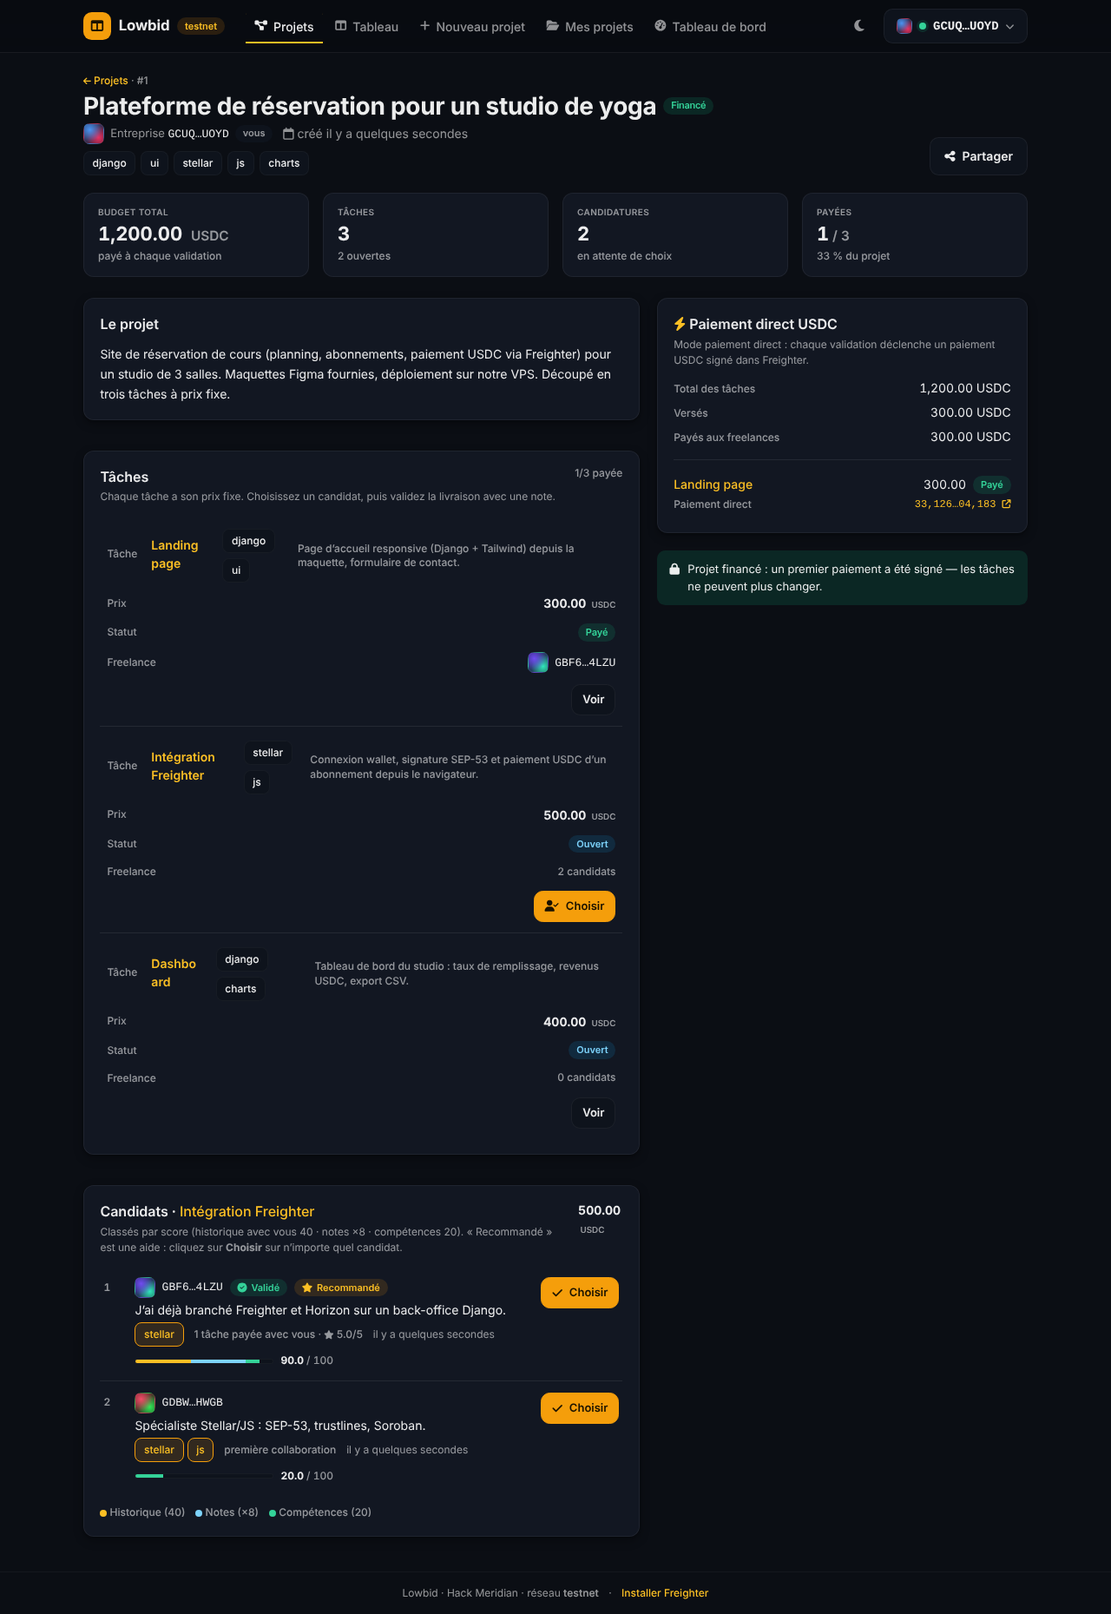
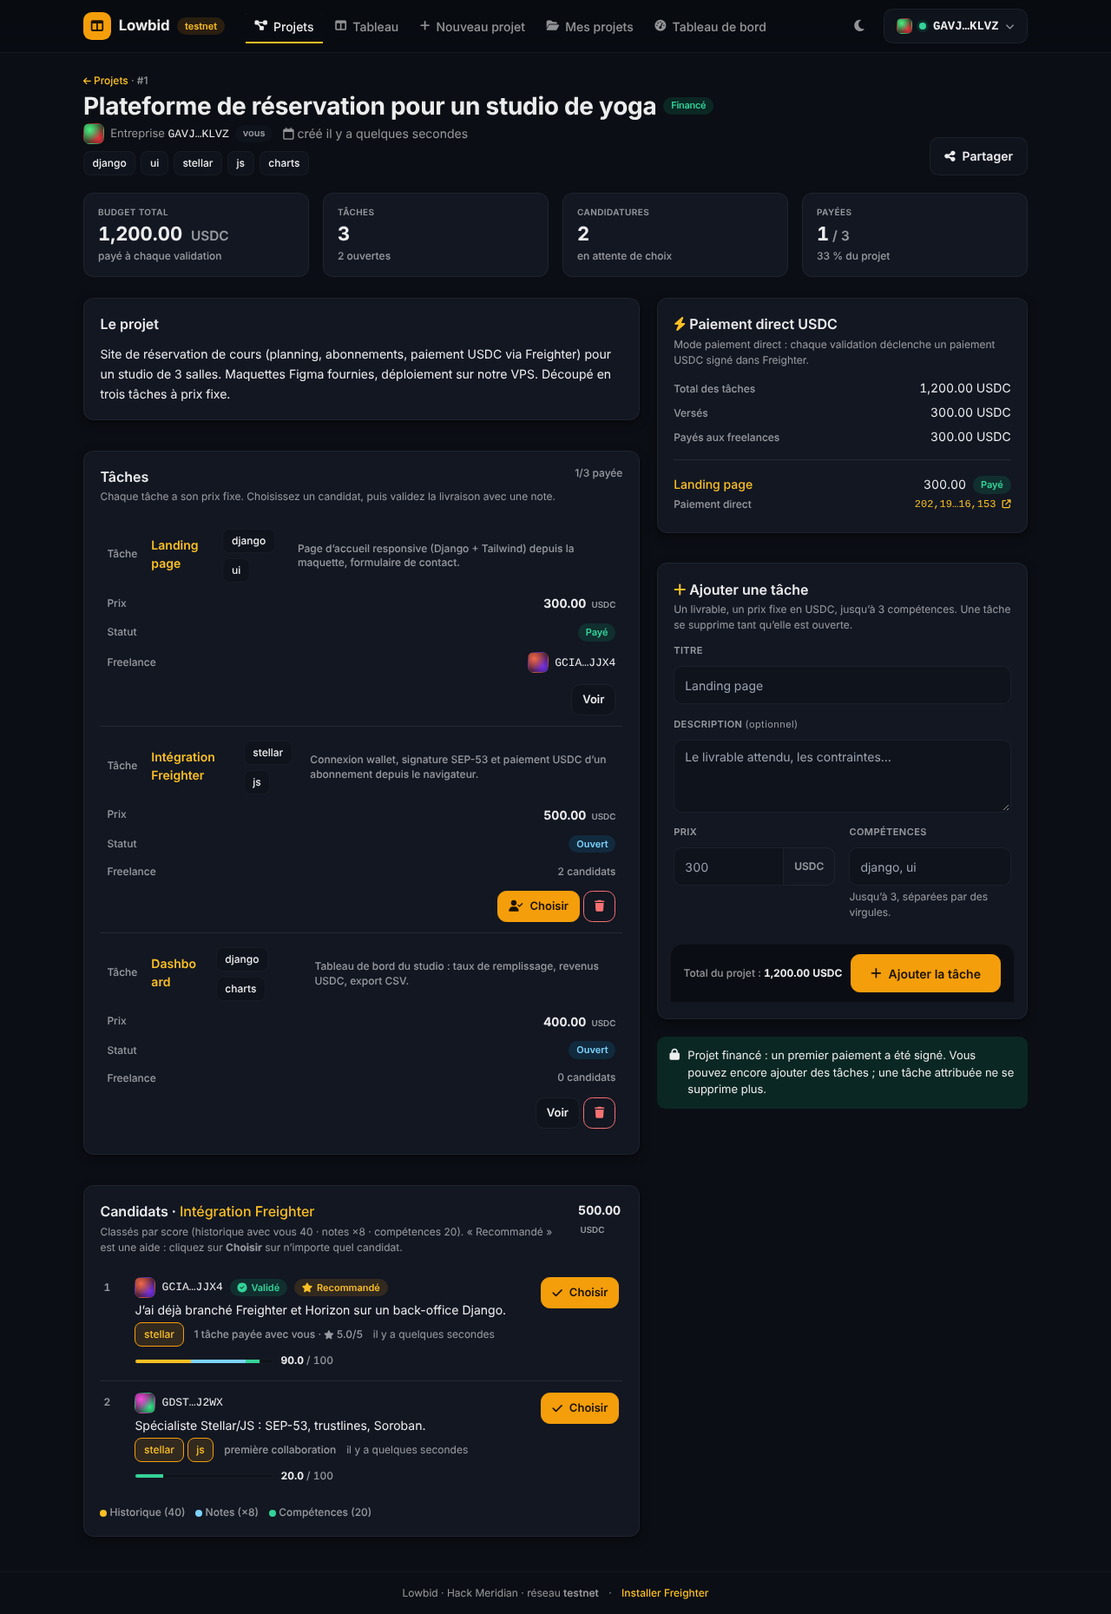
projects: tasks can be added until the project closes, deleted while open
One escrow per task means funding locks a task's price, never the project's
scope. add_task now refuses only a `closed` project; delete_task only a task
that is no longer `open`. Copy, docs (PRODUCT R3/R4/R12, ARCHITECTURE, README),
model docstrings, the kpi component example, the flow test and the e2e
assertion follow. .env.example lists LOWBID_SQLITE_PATH.

Claude-Session: https://claude.ai/code/session_011pNtMGtWMgMJzhbvsW2tGr

diff --git a/templates/projects/project_form.html b/templates/projects/project_form.html
@@ -39,7 +39,7 @@
     <div class="ui-panel">
       <div class="ui-panel-head"><div><h2 class="ui-panel-title">Ensuite</h2><p class="ui-panel-sub">Trois étapes, sans enchère ni compte à rebours.</p></div></div>
       <ol class="ui-timeline">
-        <li class="ui-timeline-item is-brand"><span class="ui-timeline-dot" aria-hidden="true"><i class="fa-solid fa-list-check"></i></span><div class="ui-timeline-body"><p class="ui-timeline-title">Découpez en tâches</p><div class="ui-timeline-time">Titre, description, prix fixe en USDC, jusqu’à 3 compétences. Modifiable tant que le projet n’est pas financé.</div></div></li>
+        <li class="ui-timeline-item is-brand"><span class="ui-timeline-dot" aria-hidden="true"><i class="fa-solid fa-list-check"></i></span><div class="ui-timeline-body"><p class="ui-timeline-title">Découpez en tâches</p><div class="ui-timeline-time">Titre, description, prix fixe en USDC, jusqu’à 3 compétences. Une tâche se supprime tant qu’elle est ouverte ; vous pourrez en ajouter à tout moment.</div></div></li>
         <li class="ui-timeline-item"><span class="ui-timeline-dot" aria-hidden="true"><i class="fa-solid fa-user-check"></i></span><div class="ui-timeline-body"><p class="ui-timeline-title">Choisissez un freelance par tâche</p><div class="ui-timeline-time">Les candidats sont classés (historique avec vous, notes, compétences) : le badge « Recommandé » est une aide, vous décidez.</div></div></li>
         <li class="ui-timeline-item is-ok"><span class="ui-timeline-dot" aria-hidden="true"><i class="fa-solid fa-circle-check"></i></span><div class="ui-timeline-body"><p class="ui-timeline-title">Validez et notez</p><div class="ui-timeline-time">Le freelance livre un lien, vous validez avec une note de 1 à 5 : la part de la tâche lui est versée.</div></div></li>
       </ol>

diff --git a/templates/projects/project_detail.html b/templates/projects/project_detail.html
@@ -127,9 +127,9 @@ payments.services.project_funding().
         </section>
       {% endif %}
       {% if project.is_draft %}
-        <div class="ui-alert ui-alert-info"><i class="fa-solid fa-circle-info" aria-hidden="true"></i><span>Projet en brouillon : les tâches restent modifiables{% if not funding.is_direct %} jusqu’au blocage des fonds{% endif %}. Les freelances peuvent déjà postuler.</span></div>
+        <div class="ui-alert ui-alert-info"><i class="fa-solid fa-circle-info" aria-hidden="true"></i><span>Projet en brouillon : aucun fonds engagé. Les freelances peuvent déjà postuler ; une tâche ouverte se supprime encore.</span></div>
       {% elif project.status == 'funded' %}
-        <div class="ui-alert ui-alert-ok"><i class="fa-solid fa-lock" aria-hidden="true"></i><span>Projet financé : {% if funding.is_direct %}un premier paiement a été signé{% else %}le prix des tâches attribuées est bloqué en escrow{% endif %} — les tâches ne peuvent plus changer.</span></div>
+        <div class="ui-alert ui-alert-ok"><i class="fa-solid fa-lock" aria-hidden="true"></i><span>Projet financé : {% if funding.is_direct %}un premier paiement a été signé{% else %}le prix de chaque tâche attribuée est bloqué dans son escrow{% endif %}. Vous pouvez encore ajouter des tâches ; une tâche attribuée ne se supprime plus.</span></div>
       {% elif project.status == 'closed' %}
         <div class="ui-alert ui-alert-ok"><i class="fa-solid fa-circle-check" aria-hidden="true"></i><span>Projet terminé : toutes les tâches sont payées.</span></div>
       {% endif %}

diff --git a/tests/e2e/run.js b/tests/e2e/run.js
@@ -533,7 +533,9 @@ async function main() {
       assert(await cp.locator(`#candidates-${taskIds[1]} [data-choose]`).count() === 2, "project page: Choisir on every candidate of T2");
       assert(await cp.locator(`#candidates-${taskIds[1]} [data-badge="valide"]`).count() === 1, "project page: Validé badge");
       assert(await cp.locator(".task-row[data-status=paid]").count() === 1, "T1 row is Payé");
-      assert(await cp.locator("[data-task-delete]").count() === 0, "project is Financé: tasks are frozen");
+      // One escrow per task: the project is Financé but only the still-open tasks (T2, T3) can be deleted; T1 (paid) cannot.
+      assert(await cp.locator("[data-task-delete]").count() === 2, "project is Financé: only the two open tasks keep a delete button");
+      assert(await cp.locator("#task-title").count() === 1, "project is Financé: the add-task form is still there");
       await shot(cp, "03-projet-entreprise");
       await noHorizontalScroll(cp, "desktop project company");
 

diff --git a/templates/components/kpi.html b/templates/components/kpi.html
@@ -1,5 +1,5 @@
 {% comment %}
-KPI tile: {% include "components/kpi.html" with label="Budget max" value="500" unit="USDC" hint="prix plafond" icon="fa-coins" href=url attr="data-kpi-best" %}
+KPI tile: {% include "components/kpi.html" with label="Prix fixe" value="300" unit=asset_code hint="payé à la validation" icon="fa-coins" href=url attr="data-kpi-price" %}
 `value` is rendered as-is (pass pre-formatted text); `unit` adds a .ui-price-unit span.
 {% endcomment %}<{% if href %}a href="{{ href }}"{% else %}div{% endif %} class="ui-kpi-tile{% if href %} is-link{% endif %}">
   <span class="ui-kpi-head"><span class="ui-kpi-label">{{ label }}</span>{% if icon %}<span class="ui-kpi-icon" aria-hidden="true"><i class="fa-solid {{ icon }}"></i></span>{% endif %}</span>

diff --git a/templates/projects/_task_form.html b/templates/projects/_task_form.html
@@ -4,7 +4,7 @@
   <div class="ui-panel-head">
     <div>
       <h2 class="ui-panel-title" id="task-form-title"><i class="fa-solid fa-plus" style="color: var(--brand-500)" aria-hidden="true"></i> Ajouter une tâche</h2>
-      <p class="ui-panel-sub">Un livrable, un prix fixe en {{ asset_code }}, jusqu’à 3 compétences. Modifiable tant que le projet n’est pas financé.</p>
+      <p class="ui-panel-sub">Un livrable, un prix fixe en {{ asset_code }}, jusqu’à 3 compétences. Une tâche se supprime tant qu’elle est ouverte.</p>
     </div>
   </div>
   <form id="task-form" class="ui-form-grid" novalidate>

diff --git a/projects/tests.py b/projects/tests.py
@@ -141,10 +141,13 @@ class AddTaskTests(BaseProjectTest):
             services.add_task(self.project, None, "Hack", "", "1", [])
         self.assertEqual(ctx.exception.code, "forbidden")
 
-    def test_only_while_draft(self):
+    def test_until_closed(self):
         Project.objects.filter(pk=self.project.pk).update(status=Project.Status.FUNDED)
+        task = services.add_task(self.project, self.company, "Encore une", "", "10", [])  # one escrow per task: funded ≠ frozen
+        self.assertEqual(task.status, "open")
+        Project.objects.filter(pk=self.project.pk).update(status=Project.Status.CLOSED)
         with self.assertRaises(ProjectError) as ctx:
-            services.add_task(self.project, self.company, "Encore une", "", "10", [])
+            services.add_task(self.project, self.company, "Trop tard", "", "10", [])
         self.assertEqual(ctx.exception.code, "wrong_state")
 
     def test_task_validation(self):
@@ -176,9 +179,8 @@ class DeleteTaskTests(BaseProjectTest):
             services.delete_task(self.t3, self.company)
         self.assertEqual(ctx.exception.code, "wrong_state")
         Project.objects.filter(pk=self.project.pk).update(status=Project.Status.FUNDED)
-        with self.assertRaises(ProjectError) as ctx:
-            services.delete_task(self.t2, self.company)
-        self.assertEqual(ctx.exception.code, "wrong_state")
+        services.delete_task(self.t2, self.company)  # still open → deletable whatever the project status
+        self.assertFalse(Task.objects.filter(pk=self.t2.pk).exists())
 
 
 # --- freelance: apply ---------------------------------------------------------------------------
@@ -763,7 +765,7 @@ class TaskAddDeleteEndpointTests(BaseProjectTest):
         self.assertEqual((r.status_code, r.json()["error"]), (400, "invalid"))
         r = self.post_json(self.client, url, {"title": "Tâche", "price": "5", "tags": "a b c d"})
         self.assertEqual((r.status_code, r.json()["error"]), (400, "bad_tags"))
-        Project.objects.filter(pk=self.project.pk).update(status=Project.Status.FUNDED)
+        Project.objects.filter(pk=self.project.pk).update(status=Project.Status.CLOSED)
         r = self.post_json(self.client, url, {"title": "Tâche", "price": "5"})
         self.assertEqual((r.status_code, r.json()["error"]), (409, "wrong_state"))
         self.assertEqual(self.client.get(url).status_code, 405)

diff --git a/projects/services.py b/projects/services.py
@@ -161,7 +161,8 @@ def create_project(company, title, description) -> Project:
 
 
 def add_task(project: Project, company, title, description, price, tags) -> Task:
-    """Only the company, only while the project is `draft` (after funding the amount is locked)."""
+    """Only the company, until the project is `closed`. One escrow per task: funding a task locks
+    THAT task's price, never the project, so new tasks can be added at any time before closing."""
     _require_company(project, company)
     title = _clean_title(title, "de la tâche")
     price = parse_price(price)
@@ -169,8 +170,8 @@ def add_task(project: Project, company, title, description, price, tags) -> Task
     description = str(description or "").strip()
     with transaction.atomic():
         locked = Project.objects.select_for_update().get(pk=project.pk)
-        if locked.status != Project.Status.DRAFT:
-            raise ProjectError("wrong_state", "Le projet est financé : ses tâches ne peuvent plus changer.")
+        if locked.status == Project.Status.CLOSED:
+            raise ProjectError("wrong_state", "Le projet est terminé : plus de nouvelle tâche.")
         position = (locked.tasks.count() or 0) + 1
         task = Task.objects.create(
             project=locked, title=title, description=description, price=price, tags=tags, position=position
@@ -180,12 +181,10 @@ def add_task(project: Project, company, title, description, price, tags) -> Task
 
 
 def delete_task(task: Task, company) -> None:
-    """Allowed while the project is draft and the task still open (applications go with it)."""
+    """Only the company, only an OPEN task (nothing chosen, nothing funded); its applications go with it."""
     _require_company(task.project, company)
     with transaction.atomic():
         locked = _locked_task(task)
-        if locked.project.status != Project.Status.DRAFT:
-            raise ProjectError("wrong_state", "Le projet est financé : ses tâches ne peuvent plus être supprimées.")
         if locked.status != Task.Status.OPEN:
             raise ProjectError("wrong_state", "Seule une tâche ouverte peut être supprimée.")
         pk = locked.pk

diff --git a/projects/models.py b/projects/models.py
@@ -2,8 +2,8 @@
 
 A company splits a Project into fixed-price Tasks; freelances apply to open tasks; the
 company picks one freelance per task; the chosen one delivers; the company validates and
-rates. Payments (Phase 2) attach an Escrow to the Project and a milestone to each Task —
-nothing Stellar-related is stored here.
+rates. The payments app attaches one Escrow row to each Task (one Trustless Work escrow per task,
+or one direct payment) — nothing Stellar-related is stored here.
 """
 
 from decimal import Decimal
@@ -41,8 +41,8 @@ class ProjectQuerySet(models.QuerySet):
 
 class Project(models.Model):
     class Status(models.TextChoices):
-        DRAFT = "draft", "Brouillon"  # not funded yet, tasks editable
-        FUNDED = "funded", "Financé"  # escrow holds the money (Phase 2) / direct mode armed
+        DRAFT = "draft", "Brouillon"  # no task funded / paid yet
+        FUNDED = "funded", "Financé"  # every assigned task holds funds (escrow) / a first payment was made (direct)
         CLOSED = "closed", "Terminé"  # every task paid
 
     company = models.ForeignKey("accounts.WalletUser", on_delete=models.PROTECT, related_name="projects")

diff --git a/projects/views.py b/projects/views.py
@@ -245,7 +245,7 @@ def project_detail(request: HttpRequest, pk: int) -> HttpResponse:
         my_apps = {a.task_id: a for a in Application.objects.filter(task__project=project, freelancer=wallet)}
     for task in tasks:
         task.project = project  # reuse the annotated instance (no extra query per row)
-        task.can_delete = is_company and project.is_draft and task.is_open
+        task.can_delete = is_company and task.is_open
         task.my_application = my_apps.get(task.pk)
         task.is_mine = wallet is not None and task.assigned_to_id == wallet.pk
     candidate_blocks = []
@@ -268,7 +268,7 @@ def project_detail(request: HttpRequest, pk: int) -> HttpResponse:
             "tasks": tasks,
             "wallet": wallet,
             "viewer_is_company": is_company,
-            "can_add_task": is_company and project.is_draft,
+            "can_add_task": is_company and project.status != Project.Status.CLOSED,
             "funding": funding,
             # The company sees "Financer le projet" as soon as the project has a task; it is enabled
             # only when an assigned task still has to be deployed/funded (escrow mode).

diff --git a/payments/tests_flow.py b/payments/tests_flow.py
@@ -247,8 +247,11 @@ class EscrowHappyPathTests(BasePayTest):
             self.assertEqual(router.last(tw.PATH_FUND), {"contractId": CONTRACT, "signer": self.company.stellar_address, "amount": 120})
             self.assertEqual((sent["next"]["step"], sent["next"]["mine"]), ("deliver", False), "the freelance acts next")
             self.assertEqual(Project.objects.get(pk=self.project.pk).status, Project.Status.FUNDED)
-            with self.assertRaises(projects.ProjectError):  # the scope is frozen once funded
-                projects.add_task(self.project, self.company, "Extra", "", "1", [])
+            # One escrow per task: funding T1 locks T1's price only, the company can still add a task.
+            extra = projects.add_task(self.project, self.company, "Extra", "", "1", [])
+            self.assertEqual(extra.status, "open")
+            with self.assertRaises(projects.ProjectError):  # … but a chosen task can no longer be deleted
+                projects.delete_task(self.task, self.company)
 
             # 3. freelance delivers: TW milestone change + projects.services.deliver(link)
             login(self.client, self.freelance)

diff --git a/docs/PRODUCT.md b/docs/PRODUCT.md
@@ -46,8 +46,8 @@ The rules below are derived from `projects/services.py`, `projects/scoring.py` a
 
 ### Projects and tasks
 - **R2** Any signed-in wallet can create a project; it becomes that project's company. Title 3 to 120 characters, description required. A new project is `draft` (« Brouillon »).
-- **R3** Only the project's company can add a task (`forbidden`, 403), and only while the project is `draft` (`wrong_state`, 409). Title 3 to 120 characters; price strictly positive, at most 7 decimals, below 10¹¹ (`invalid`, 400); tags separated by commas, spaces or semicolons, normalised to lowercase slugs, de-duplicated, at most 3, at most 24 characters each (`bad_tags`, 400); description optional.
-- **R4** A task can be deleted only by the company, only while the project is `draft` and the task `open`. Its applications are deleted with it.
+- **R3** Only the project's company can add a task (`forbidden`, 403), at any time until the project is `closed` (`wrong_state`, 409): one escrow per task means funding locks a task's price, never the project. Title 3 to 120 characters; price strictly positive, at most 7 decimals, below 10¹¹ (`invalid`, 400); tags separated by commas, spaces or semicolons, normalised to lowercase slugs, de-duplicated, at most 3, at most 24 characters each (`bad_tags`, 400); description optional.
+- **R4** A task can be deleted only by the company and only while it is `open` (`wrong_state` once a freelance is chosen), whatever the project status. Its applications are deleted with it.
 
 ### Applications, score and badges
 - **R5** Any signed-in wallet except the project's company can apply to an `open` task (`own_task`, 403; `wrong_state`, 409), once per task (`duplicate`, 409, also a database constraint). Message at most 280 characters; tags as in R3. An application carries no price.
@@ -61,7 +61,7 @@ The rules below are derived from `projects/services.py`, `projects/scoring.py` a
 
 ### Funding
 - **R11** A task can be funded only once a freelance is chosen (`not_chosen`): Trustless Work fixes the escrow's receiver when it is deployed. In escrow mode the company signs `deploy` then `fund` for each task; the escrow's amount is the task's price and its receiver is the chosen freelance. « Financer le projet » chains both steps for every assigned task that is not funded yet (two signatures per task); with nothing to fund it is disabled and says why.
-- **R12** A project moves from `draft` to `funded` (« Financé ») when every assigned (non-open) task's escrow holds its money (escrow mode), or at the first payment (direct mode, where nothing is locked in advance). From then on tasks can no longer be added or deleted.
+- **R12** A project moves from `draft` to `funded` (« Financé ») when every assigned (non-open) task's escrow holds its money (escrow mode), or at the first payment (direct mode, where nothing is locked in advance). Tasks can still be added; only an `open` task can be deleted (R4).
 
 ### Delivery
 - **R13** Only the chosen freelance delivers (`not_assigned`, 403), only a `taken` task (`wrong_state`). The link is required, starts with `http://` or `https://` and has at most 500 characters (`invalid`). In escrow mode the delivery is an on-chain milestone change signed by the freelance, possible only once the escrow is funded (a database-only delivery is refused); the first 280 characters of the link go on chain as evidence. In direct mode the delivery is a declaration with no transaction.
@@ -136,13 +136,13 @@ Studio Nova chooses Yanis. He delivers, the company rates him **5/5**, and T1 is
 | `funded` | « Financé » | see above | every task paid → `closed` |
 | `closed` | « Terminé » | every task `paid` | — |
 
-Tasks can be added or deleted only in `draft`. A project with a single task paid directly goes from `draft` straight to `closed`.
+Tasks can be added until `closed`; only an `open` task can be deleted. A project with a single task paid directly goes from `draft` straight to `closed`.
 
 ### Task
 
 | Status | Label | Enters when | Next |
 |--------|-------|-------------|------|
-| `open` | « Ouvert » | added | the company chooses → `taken` (or deleted, project `draft` only) |
+| `open` | « Ouvert » | added | the company chooses → `taken` (or deleted while still open) |
 | `taken` | « Pris » | a freelance is chosen | the freelance delivers → `delivered` |
 | `delivered` | « Livré » | delivery confirmed (on chain in escrow mode) | the company rates, then the payment is confirmed → `paid` |
 | `paid` | « Payé » | release / direct payment confirmed | — |
@@ -190,7 +190,7 @@ Signatures for one task: escrow mode = 4 by the company (deploy, fund, approve, 
 | `/` | everyone | Landing: pitch, live stats (open tasks, projects, USDC paid), latest projects; « Nouveau projet » once signed in | `01-landing.png`, `mobile-landing.png` |
 | `/projets/` | everyone | Project list: tabs En cours / Terminés / Tous, search (project or task title, tags), tag chips, sort (newest, highest total, most open tasks), pagination | `02-liste-projets.png`, `mobile-liste.png` |
 | `/projets/nouveau/` | signed in | New project form (title, description) | — |
-| `/projets/<pk>/` | everyone | Project page: KPIs (total of the task prices, tasks, applications, paid tasks), the task table with each task's status and payment status, the inline add-task form (company, draft), candidates per open task with « Choisir » (company), the funding banner and « Financer le projet » (company) | `03-projet-entreprise.png`, `15-financement-projet.png`, `mobile-projet.png` |
+| `/projets/<pk>/` | everyone | Project page: KPIs (total of the task prices, tasks, applications, paid tasks), the task table with each task's status and payment status, the inline add-task form (company, until the project is closed), candidates per open task with « Choisir » (company), the funding banner and « Financer le projet » (company) | `03-projet-entreprise.png`, `15-financement-projet.png`, `mobile-projet.png` |
 | `/taches/<pk>/` | everyone | Task page: KPIs (fixed price, candidates, project, current step), tags, the apply form (freelance), the ranked candidates with badges and score bars (polled every 5 s), the payment panel (stepper, next step, delivery form, rating form, trustline, live balance, stellar.expert links) | `04-tache-candidats.png`, `05-tache-livree-freelance.png`, `06-valider-noter.png`, `08-tache-valide-recommande.png`, `12-tache-light.png`, `13-paiement-echec.png`, `14-paiement-tache.png`, `mobile-tache-candidats.png` |
 | `/taches/` | signed in | Freelance kanban: Ouvert (open tasks of other companies, the ones I applied to first), Pris, Livré, Payé (my tasks) | `07-tableau-kanban.png`, `mobile-kanban.png` |
 | `/mes-projets/` | signed in | The company's projects: KPIs (drafts, tasks to choose for, deliveries to validate, finished), tabs En cours / Terminés / Tous, a row per project with its next action | `09-mes-projets.png` |

diff --git a/README.md b/README.md
@@ -40,7 +40,7 @@ ends with one « Payer le freelance » payment signed in Freighter.
 ```
 
 1. The **company** connects its **Freighter** wallet (Stellar testnet). Login is a signed message, no password.
-2. It creates a **project** (title, description) and splits it into **tasks**, each with a title, a **fixed price** in USDC and up to 3 skill tags. Tasks can be added or deleted while the project is a draft.
+2. It creates a **project** (title, description) and splits it into **tasks**, each with a title, a **fixed price** in USDC and up to 3 skill tags. Tasks can be added until the project is closed; an open task can still be deleted.
 3. **Freelances** connect their own wallet. The kanban (`/taches/`) shows every open task of other companies plus their own tasks, in four columns: Ouvert, Pris, Livré, Payé.
 4. A freelance **applies** to a task with a short message and their skills. There is no price to fight over: the price is fixed by the company.
 5. Lowbid ranks the candidates with a **deterministic score** (no AI). Two badges help: **« Validé »** (already paid by this company with an average rating ≥ 3) and **« Recommandé »** (the best score).
